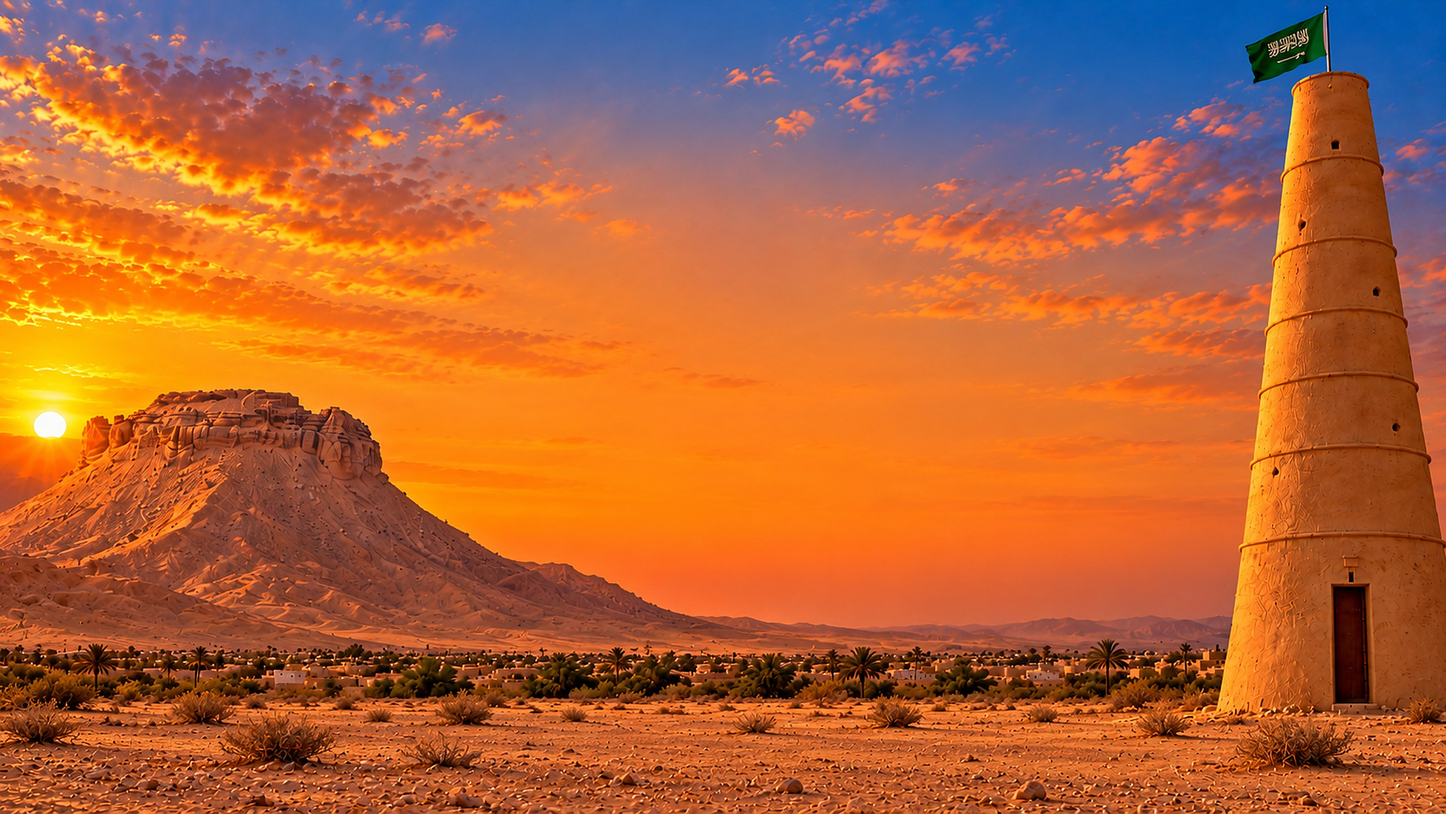
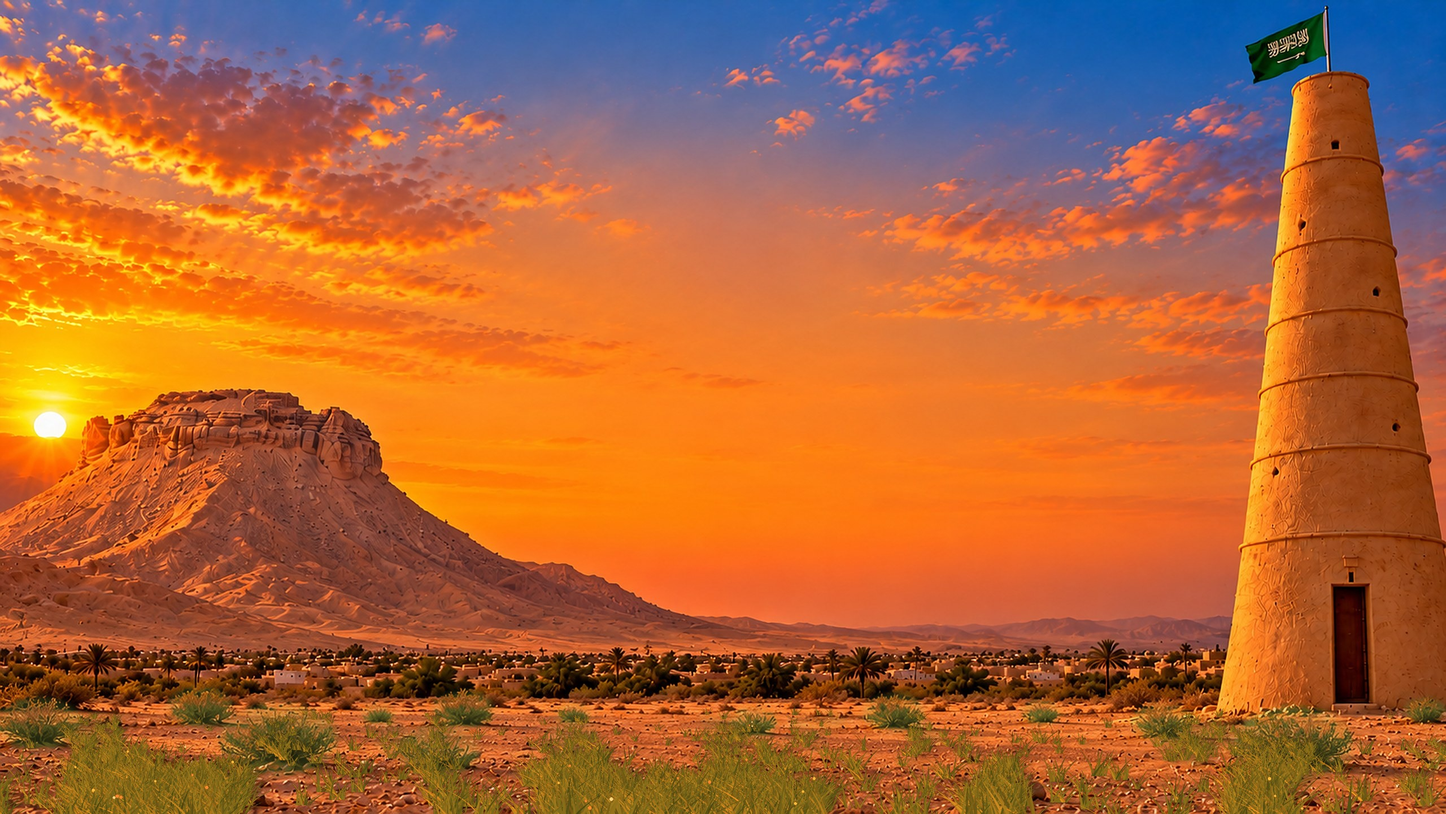
Tree background: natural grass and greenery on the desert ground

Changed region(s): [[0.0, 0.8432, 1.0, 1.0]]

diff --git a/v7/index.html b/v7/index.html
@@ -864,7 +864,7 @@ function initGL(){
     const upRep=(img,fmt)=>{const t=gl.createTexture();gl.bindTexture(gl.TEXTURE_2D,t);try{gl.texImage2D(gl.TEXTURE_2D,0,fmt,fmt,gl.UNSIGNED_BYTE,img);}catch(e){return null;}gl.generateMipmap(gl.TEXTURE_2D);
       gl.texParameteri(gl.TEXTURE_2D,gl.TEXTURE_MIN_FILTER,gl.LINEAR_MIPMAP_LINEAR);gl.texParameteri(gl.TEXTURE_2D,gl.TEXTURE_MAG_FILTER,gl.LINEAR);gl.texParameteri(gl.TEXTURE_2D,gl.TEXTURE_WRAP_S,gl.MIRRORED_REPEAT);gl.texParameteri(gl.TEXTURE_2D,gl.TEXTURE_WRAP_T,gl.CLAMP_TO_EDGE);return{tex:t,w:img.naturalWidth,h:img.naturalHeight};};
     // الخلفية: v7/bg/bg-scene.jpg (بانوراما المعلمين، يفضّل 3840×1600، تُعرض بملء الشاشة) و v7/bg/crown-mask.png (قناع قص الشجرة)
-    if(!POSTERBG)loadImg(innerHeight>innerWidth*1.15?'bg/bg-tree-portrait.jpg?v=1':'bg/bg-scene.jpg?v=3',i=>{if(!gl)return;const t=up(i,gl.RGB);if(t){G.scene=t;G.sceneA=i.naturalWidth/i.naturalHeight;}});
+    if(!POSTERBG)loadImg(innerHeight>innerWidth*1.15?'bg/bg-tree-portrait.jpg?v=2':'bg/bg-scene.jpg?v=4',i=>{if(!gl)return;const t=up(i,gl.RGB);if(t){G.scene=t;G.sceneA=i.naturalWidth/i.naturalHeight;}});
     if(!POSTERBG)loadImg('bg/node-mask.png',i=>{if(!gl)return;const t=up(i,gl.LUMINANCE);if(t)G.node=t;});
     if(!POSTERBG)loadImg(MOBILE?'bg/cut-mask.png?v=1':'bg/crown-mask.png',i=>{if(!gl)return;const t=up(i,gl.LUMINANCE);if(t)G.crown=t;});
     try{initStageGL();}catch(e){console.warn('stage off:',e);G.bb=null;}

diff --git a/v7/sw.js b/v7/sw.js
@@ -1,5 +1,5 @@
 // خدمة العمل بدون إنترنت: الواجهة من الشبكة أولاً، والصور والبلاطات من الذاكرة أولاً
-const C='ajlan-v7-53',SHELL=['./','./index.html','./nasab.html','./people_all.json','./manifest.webmanifest','./bg/bg-scene.jpg','./bg/bg-home-portrait.jpg','./bg/bg-tree-portrait.jpg','./bg/crown-mask.png','./bg/node-mask.png','./bg/logo.png','../v4/tree-small.jpg'];
+const C='ajlan-v7-54',SHELL=['./','./index.html','./nasab.html','./people_all.json','./manifest.webmanifest','./bg/bg-scene.jpg','./bg/bg-home-portrait.jpg','./bg/bg-tree-portrait.jpg','./bg/crown-mask.png','./bg/node-mask.png','./bg/logo.png','../v4/tree-small.jpg'];
 self.addEventListener('install',e=>{e.waitUntil(caches.open(C).then(c=>c.addAll(SHELL)).then(()=>self.skipWaiting()));});
 self.addEventListener('activate',e=>{e.waitUntil(caches.keys().then(ks=>Promise.all(ks.filter(k=>k!==C).map(k=>caches.delete(k)))).then(()=>self.clients.claim()));});
 self.addEventListener('fetch',e=>{const r=e.request;if(r.method!=='GET')return;const u=new URL(r.url);
